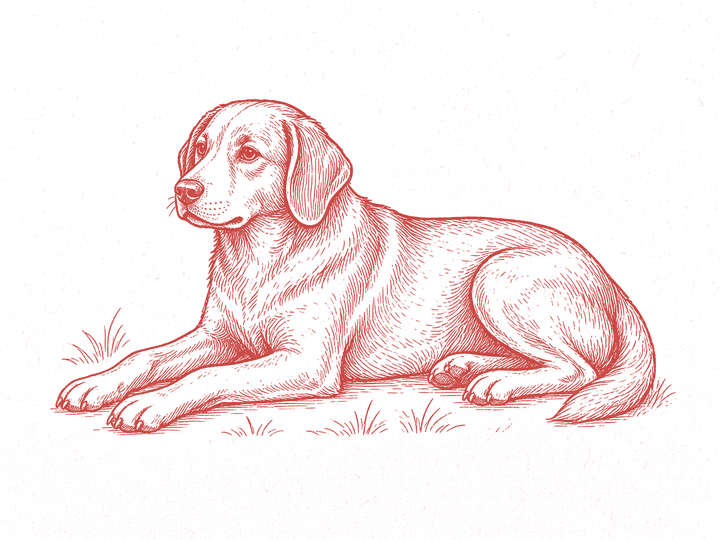
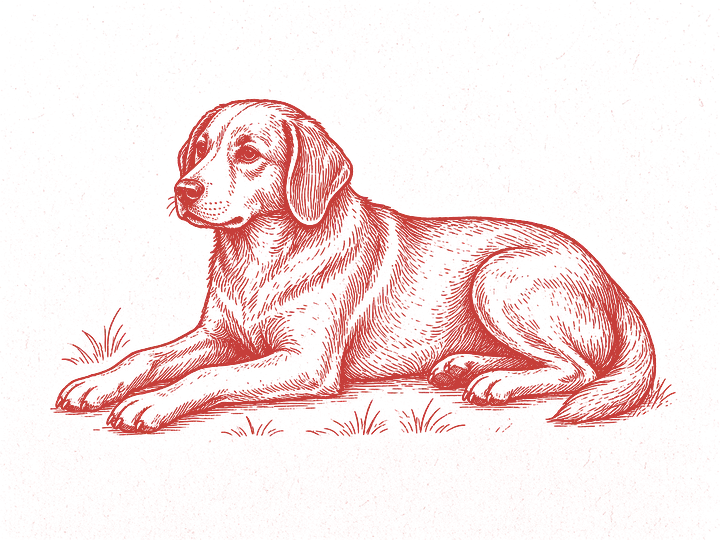
fix(store): 報頭與頭版照稿子重量——臥犬、字標右的匠寵、內文欄的級數
把稿子上的墨一處一處重新量過，九條帶的框線先定出來，再比各處的墨：

報頭右框裡那只狗，稿子上是臥著、頭朝右、鋪滿框的右下角（墨 725..799 ×
120..171），不是坐著的；手上有張臥犬的雕版，頭朝左，翻過來用。那張雕版
的線比我們其他幾張淡（最深的一成二是 207,134,125，稿子是 182,90,99），
所以把它的墨層加厚到跟其他雕版同一個墨量。

匠寵那兩個字的墨，稿子是 24..127 共 103 高、兩字之間只隔 6；先前照錯的
目標把字距拉到 0.4em，整疊高出十來點，也沒跟 FURMOSA 的字頂對齊。字距
收到 0.16em、整疊往下落 0.15em，墨就落回 24..126。它跟 A 的末筆幾乎是
貼著的（544 接 560），欄距也跟著收。

副題是對著 FURMOSA 置中的（墨 255..520，字標 204..563），不是對著整欄
置中；對整欄會把它推到右邊去貼上匠寵。順手把 .st-masthead p 的 margin
改成只收上下，不然它會把個別元件的左右邊距一起吃掉。

頭版三格的框是 10..139 / 148..589 / 598..804，雕版比先前量的寬二十來點。
大標一欄六個字排 173 高，字身是 29；內文那四根細欄的欄距 20.7、一欄裝得
下十七八個字，所以字身是 14 不是 16——字身收小，欄距要同步放鬆，欄才留
在原處。內文那塊是貼著欄的左邊起排的（墨從 608 開始），不是靠著大標。
「看更多」在稿子上是藍墨的，紅的只有箭頭與底下那條線。

浪浪帶中間貓那一格的框是 358..547，比先前量的寬二十來點。

窄螢幕上頭版的雕版不再放大：一格就是整個螢幕寬，再放大只會把狗跟貓各
裁掉一截。

Changed region(s): [[0.0611, 0.1778, 0.9472, 0.8296]]

diff --git a/src/app/store/store.css b/src/app/store/store.css
@@ -125,7 +125,8 @@ body:has(.st-page) {
   --st-claim: 5.11cqw;
   /* 稿子上頭版那三行小字的字高 8、行距 17.5，比報頭的產地行大一級。 */
   --st-claim-line: 1.4cqw;
-  --st-headline: 3.9cqw;
+  /* 稿子上頭版大標一欄六個字排 173 高，一個字的字身 29，不是三十出頭。 */
+  --st-headline: 3.56cqw;
   --st-section: 5cqw;
   --st-subsection: 3.8cqw;
   --st-block: 3.2cqw;
@@ -347,8 +348,9 @@ body:has(.st-page) {
   pointer-events: none;
 }
 
+/* 只收段落自帶的上下邊距；寫成 margin 會連帶把個別元件的左右邊距一起吃掉。 */
 .st-masthead p {
-  margin: 0;
+  margin-block: 0;
 }
 
 .st-masthead__badge {
@@ -397,7 +399,8 @@ body:has(.st-page) {
   grid-area: mark;
   display: flex;
   align-items: center;
-  gap: 1.4cqw;
+  /* 稿子上匠寵的墨幾乎貼著 A 的末筆（544 接 560），不是隔開一整個字距。 */
+  gap: 0.35cqw;
   padding-left: 2.4cqw;
   color: inherit;
   text-decoration: none;
@@ -436,10 +439,14 @@ body:has(.st-page) {
   font-weight: 900;
   line-height: 1.3;
   /*
-   * 稿子上這兩個字是窄長體，墨高比墨寬多了一成；手上的字是方的，
-   * 所以只能把兩字之間的空拉開，讓整疊的墨高對得上。
+   * 稿子上這兩個字是窄長體（墨 50 高、46 寬），手上的字是方的，級數只能照
+   * 墨寬給，所以單字矮了一截；兩字之間的空照稿子的 6 給，整疊才是稿子的 103
+   * 高——先前拉到 0.4em 是照錯的目標量的，那樣整疊會高出十來點。
    */
-  letter-spacing: 0.4em;
+  letter-spacing: 0.16em;
+  /* 稿子上整疊的墨頂是 24，跟 FURMOSA 的字頂齊，不是跟字標那一列對半置中。 */
+  position: relative;
+  top: 0.15em;
 }
 
 /* 稿子上這行標語是小而散的：字壓得比字標小得多，靠字距撐到字標的寬。 */
@@ -447,6 +454,12 @@ body:has(.st-page) {
   grid-area: strap;
   /* 稿子上副題貼著字標排，底下留白；置中會把它壓到帶的下緣去。 */
   align-self: start;
+  /*
+   * 稿子上這行是對著 FURMOSA 置中的（墨 255..520，字標墨 204..563），
+   * 不是對著整欄置中；對整欄的話會被推到右邊去貼上匠寵。
+   */
+  width: var(--st-word-w);
+  margin-left: 2.4cqw;
   font-family: var(--st-font-didone), serif;
   font-size: var(--st-strap);
   font-weight: 600;
@@ -557,12 +570,17 @@ body:has(.st-page) {
   display: block;
 }
 
+/*
+ * 稿子上這只狗的墨是 725..799 寬、120..171 高，臥在框的右下角、頭朝右；
+ * 手上這張雕版的頭朝左，所以翻過來用。
+ */
 .st-masthead__dog {
   position: absolute;
-  right: 1cqw;
-  bottom: 0.9cqw;
-  width: 36%;
+  right: 0.6cqw;
+  bottom: 0.2cqw;
+  width: 54%;
   height: auto;
+  transform: scaleX(-1);
 }
 
 /* ---------- 導覽 ---------- */
@@ -625,8 +643,11 @@ body:has(.st-page) {
   /* 稿子上這條帶的框是 298..625，帶高 327、帶寬 814。 */
   height: 40.2cqw;
 
-  /* 稿子上三格量出來是 135 / 424 / 221——雕版佔掉一半以上的帶寬。 */
-  grid-template-columns: minmax(0, 1.73fr) minmax(0, 5.44fr) minmax(0, 2.83fr);
+  /*
+   * 稿子上的框是 10..139 / 148..589 / 598..804，三格 129 / 441 / 206——
+   * 雕版比先前量的又寬了二十來點，佔掉一半以上的帶寬。
+   */
+  grid-template-columns: minmax(0, 1.66fr) minmax(0, 5.68fr) minmax(0, 2.65fr);
   /* 列也要封頂，否則格子按 max-content 長高，整條帶就被內容頂破。 */
   grid-template-rows: minmax(0, 1fr);
   gap: var(--st-cell-gap);
@@ -732,7 +753,8 @@ body:has(.st-page) {
   color: var(--st-ink);
   font-size: var(--st-headline);
   font-weight: 700;
-  line-height: 1.12;
+  /* 稿子上兩欄的間距是 35，字身 29，所以欄距給一點二一倍。 */
+  line-height: 1.21;
   letter-spacing: 0.02em;
 }
 
@@ -740,28 +762,42 @@ body:has(.st-page) {
   grid-area: body;
   writing-mode: vertical-rl;
   text-orientation: mixed;
-  justify-self: end;
+  /* 稿子上這塊貼著內文欄的左邊起排（墨從 608 開始），不是靠著大標。 */
+  justify-self: start;
   max-height: 100%;
   color: var(--st-ink-mid);
-  /* 稿子上這段排成四根細欄，欄距只有字身的一又四分之一，不是鬆鬆的三欄。 */
-  font-size: 1.97cqw;
-  line-height: 1.25;
+  /*
+   * 稿子上這段排成四根細欄，欄距 20.7、一欄裝得下十七八個字，所以字身是 14
+   * 不是 16；字身收小了欄距得同步放鬆，欄的位置才留在原處。
+   */
+  font-size: 1.72cqw;
+  line-height: 1.48;
   letter-spacing: 0.02em;
 }
 
-/* 稿子上這條紅線是壓在「看更多」底下的，不是架在它上面。 */
+/*
+ * 稿子上這條紅線是壓在「看更多」底下的，不是架在它上面；字本身是藍墨的，
+ * 紅的只有箭頭與這條線。
+ */
 .st-hero__copy .st-link {
   grid-area: cta;
   align-self: end;
   padding-bottom: 0.5cqw;
   border-bottom: var(--st-hair) solid var(--st-red);
+  color: var(--st-ink);
   font-size: var(--st-note);
+}
+
+.st-hero__copy .st-link:hover,
+.st-hero__copy .st-link:focus-visible {
+  color: var(--st-red);
 }
 
 /* 箭頭推到欄的另一端，中間拉一條紅線把它接回「看更多」。 */
 .st-hero__copy .st-link span {
   flex: 1;
   position: relative;
+  color: var(--st-red);
   line-height: 1;
   text-align: right;
 }
@@ -1346,8 +1382,11 @@ body:has(.st-page) {
   height: 18.3cqw;
   padding: 0.5cqw 0.5cqw 0.5cqw 2.46cqw;
 
-  /* 稿子上三格量出來是 357 / 173 / 267：訂閱那一格比想像的寬得多。 */
-  grid-template-columns: minmax(0, 4.47fr) minmax(0, 2.17fr) minmax(0, 3.34fr);
+  /*
+   * 稿子上的框是 20..353 / 358..547 / 552..810，三格 333 / 189 / 258：
+   * 貓那一格比先前量的寬二十來點，訂閱那一格也比想像的寬得多。
+   */
+  grid-template-columns: minmax(0, 4.27fr) minmax(0, 2.42fr) minmax(0, 3.31fr);
   /* 列要封頂，三欄才會收在帶裡，而不是各自按內容長高。 */
   grid-template-rows: minmax(0, 1fr);
   gap: var(--st-cell-gap);
@@ -1924,8 +1963,17 @@ body:has(.st-page) {
   }
 
   /* 窄螢幕的格子比例差很多，填滿會裁到狗，回到等比縮放。 */
-  .st-care__art {
+  .st-care__art,
+  .st-hero__art {
     object-fit: contain;
+  }
+
+  /*
+   * 頭版的雕版在稿子上是出血的，所以桌機放大了一成多去頂住框邊；窄螢幕一格
+   * 就是整個螢幕寬，再放大只會把狗跟貓各裁掉一截，照原寸排才看得到全圖。
+   */
+  .st-hero__art {
+    transform: none;
   }
 
   /* 窄螢幕沒有多餘的寬度吃放大後的透明邊，照原寸排就好。 */

diff --git a/src/data/store.ts b/src/data/store.ts
@@ -18,7 +18,6 @@ import cutBowl from "@/assets/store/cut-5-bowl.webp";
 import cutRetriever from "@/assets/store/cut-6-retriever.webp";
 import cutJar from "@/assets/store/cut-jar.webp";
 import dogLying from "@/assets/store/dog-lying.webp";
-import dogSitting from "@/assets/store/dog-sitting.webp";
 import dogTrotting from "@/assets/store/dog-trotting.webp";
 import goodsBeef from "@/assets/store/goods-2-beef.webp";
 import goodsDuck from "@/assets/store/goods-4-duck.webp";
@@ -69,8 +68,9 @@ export const MASTHEAD = {
   /** 報頭右邊那只紅框裡的直書引文，照稿子分三欄。 */
   quote: ["好食物，", "讓牠們的世界", "再大一點。"],
   seal: "匠寵",
-  art: dogSitting,
-  alt: "情境示意圖：紅色雕版風格的插畫，一隻側坐著的長毛狗",
+  /* 稿子上這只狗是臥著的，不是坐著的，墨也鋪滿框的右下角。 */
+  art: dogLying,
+  alt: "情境示意圖：紅色雕版風格的插畫，一隻臥在地上抬著頭的狗",
 } as const;
 
 /*
